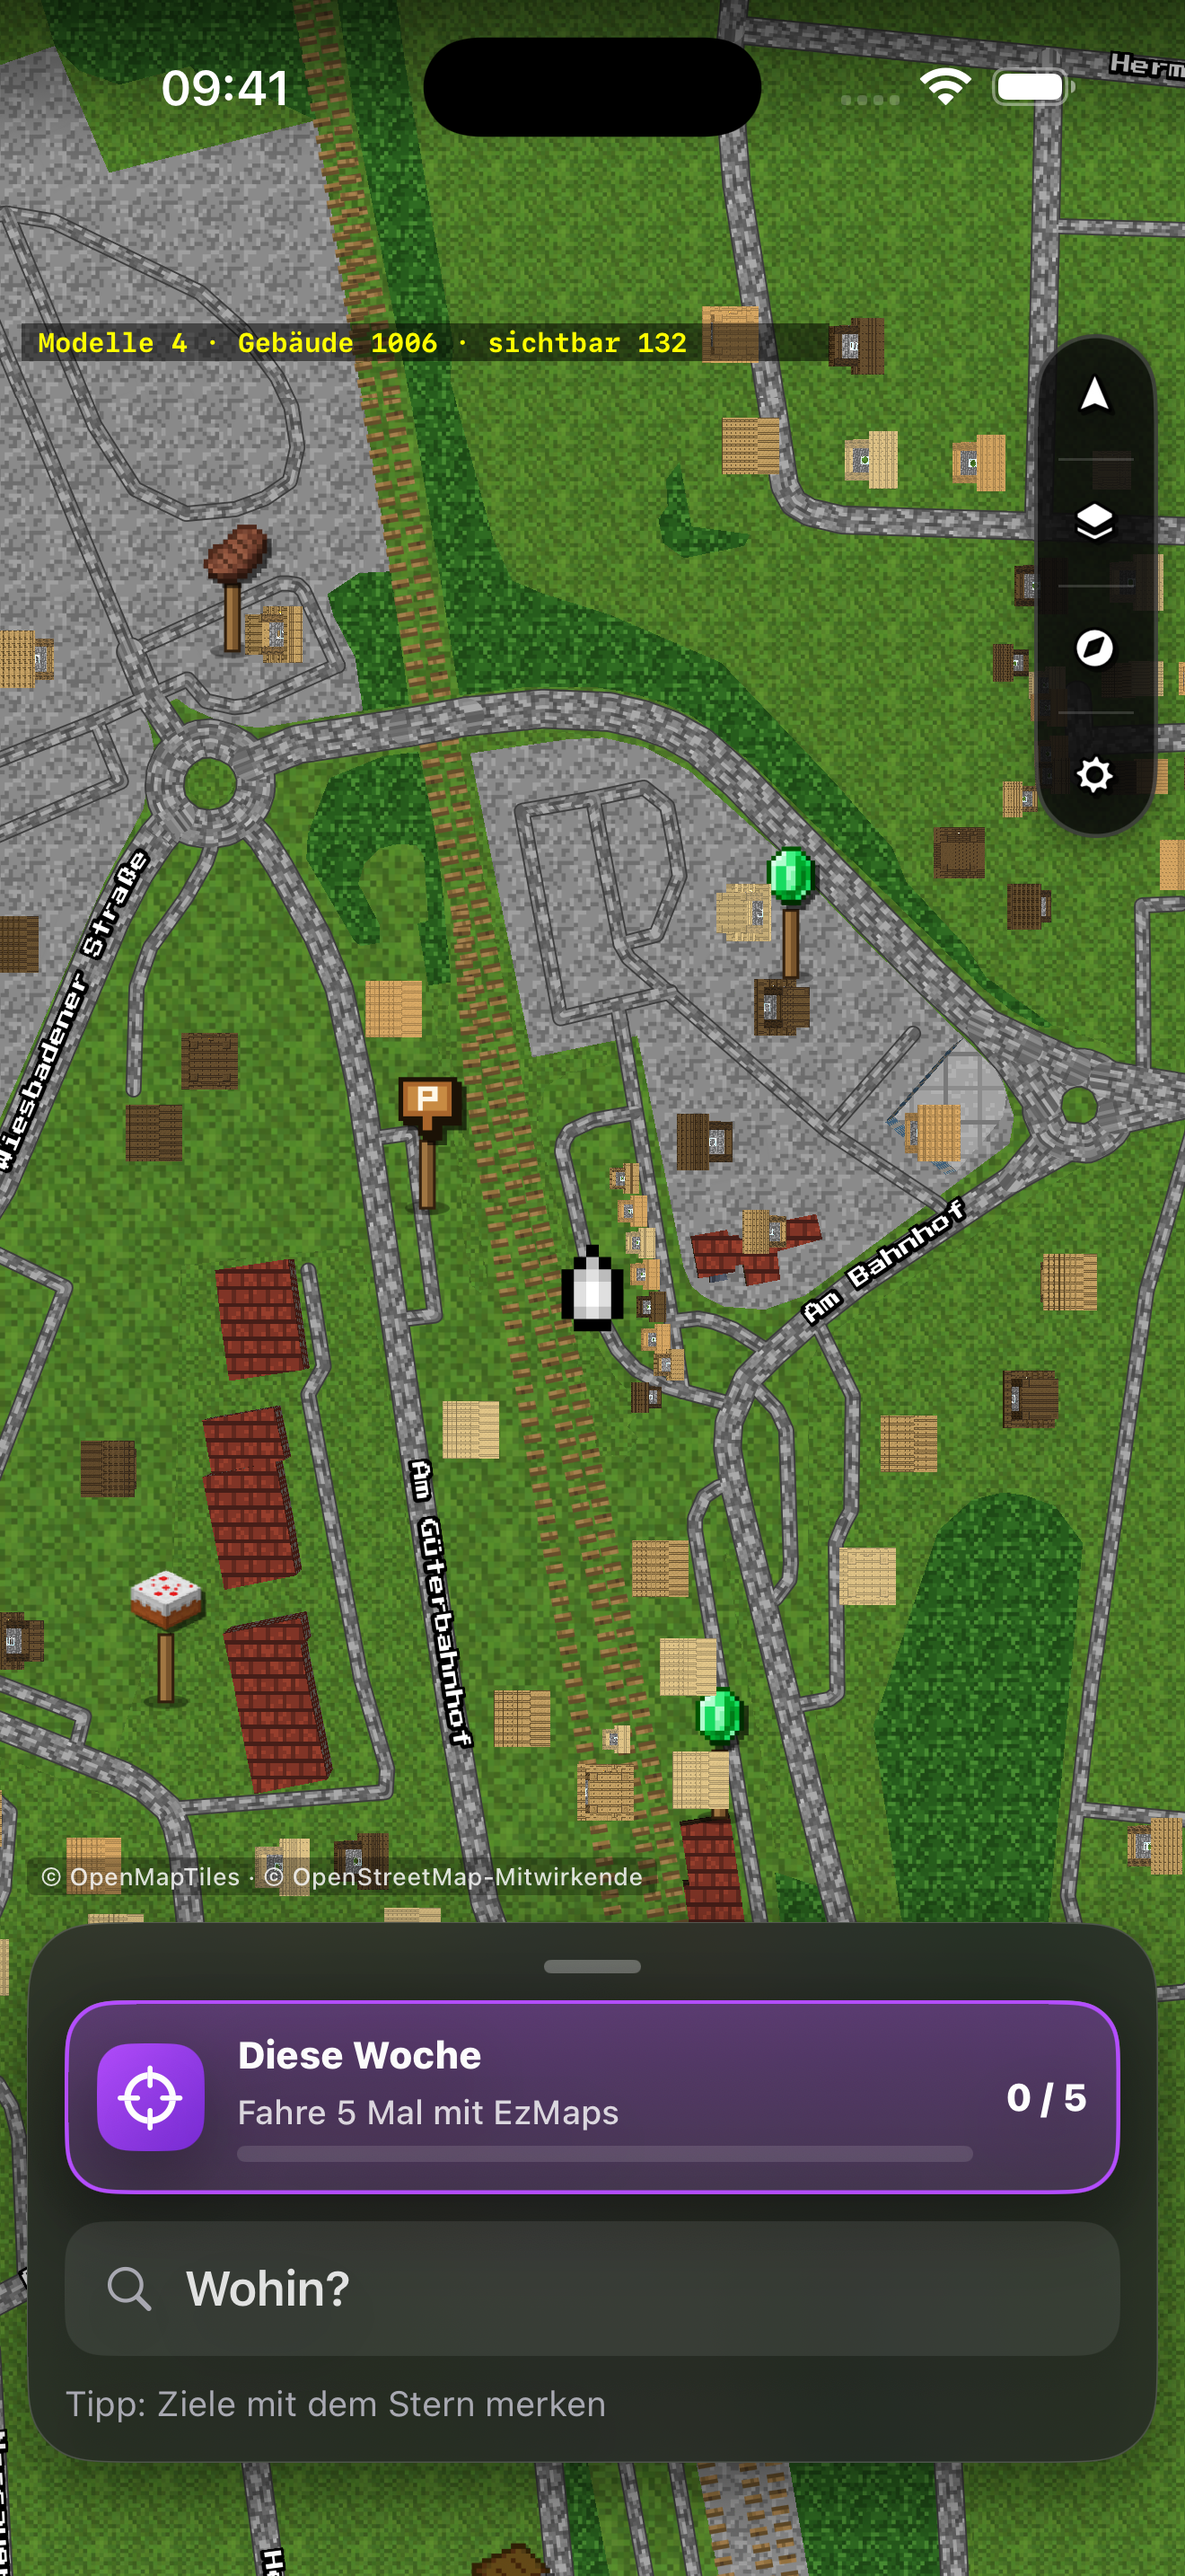
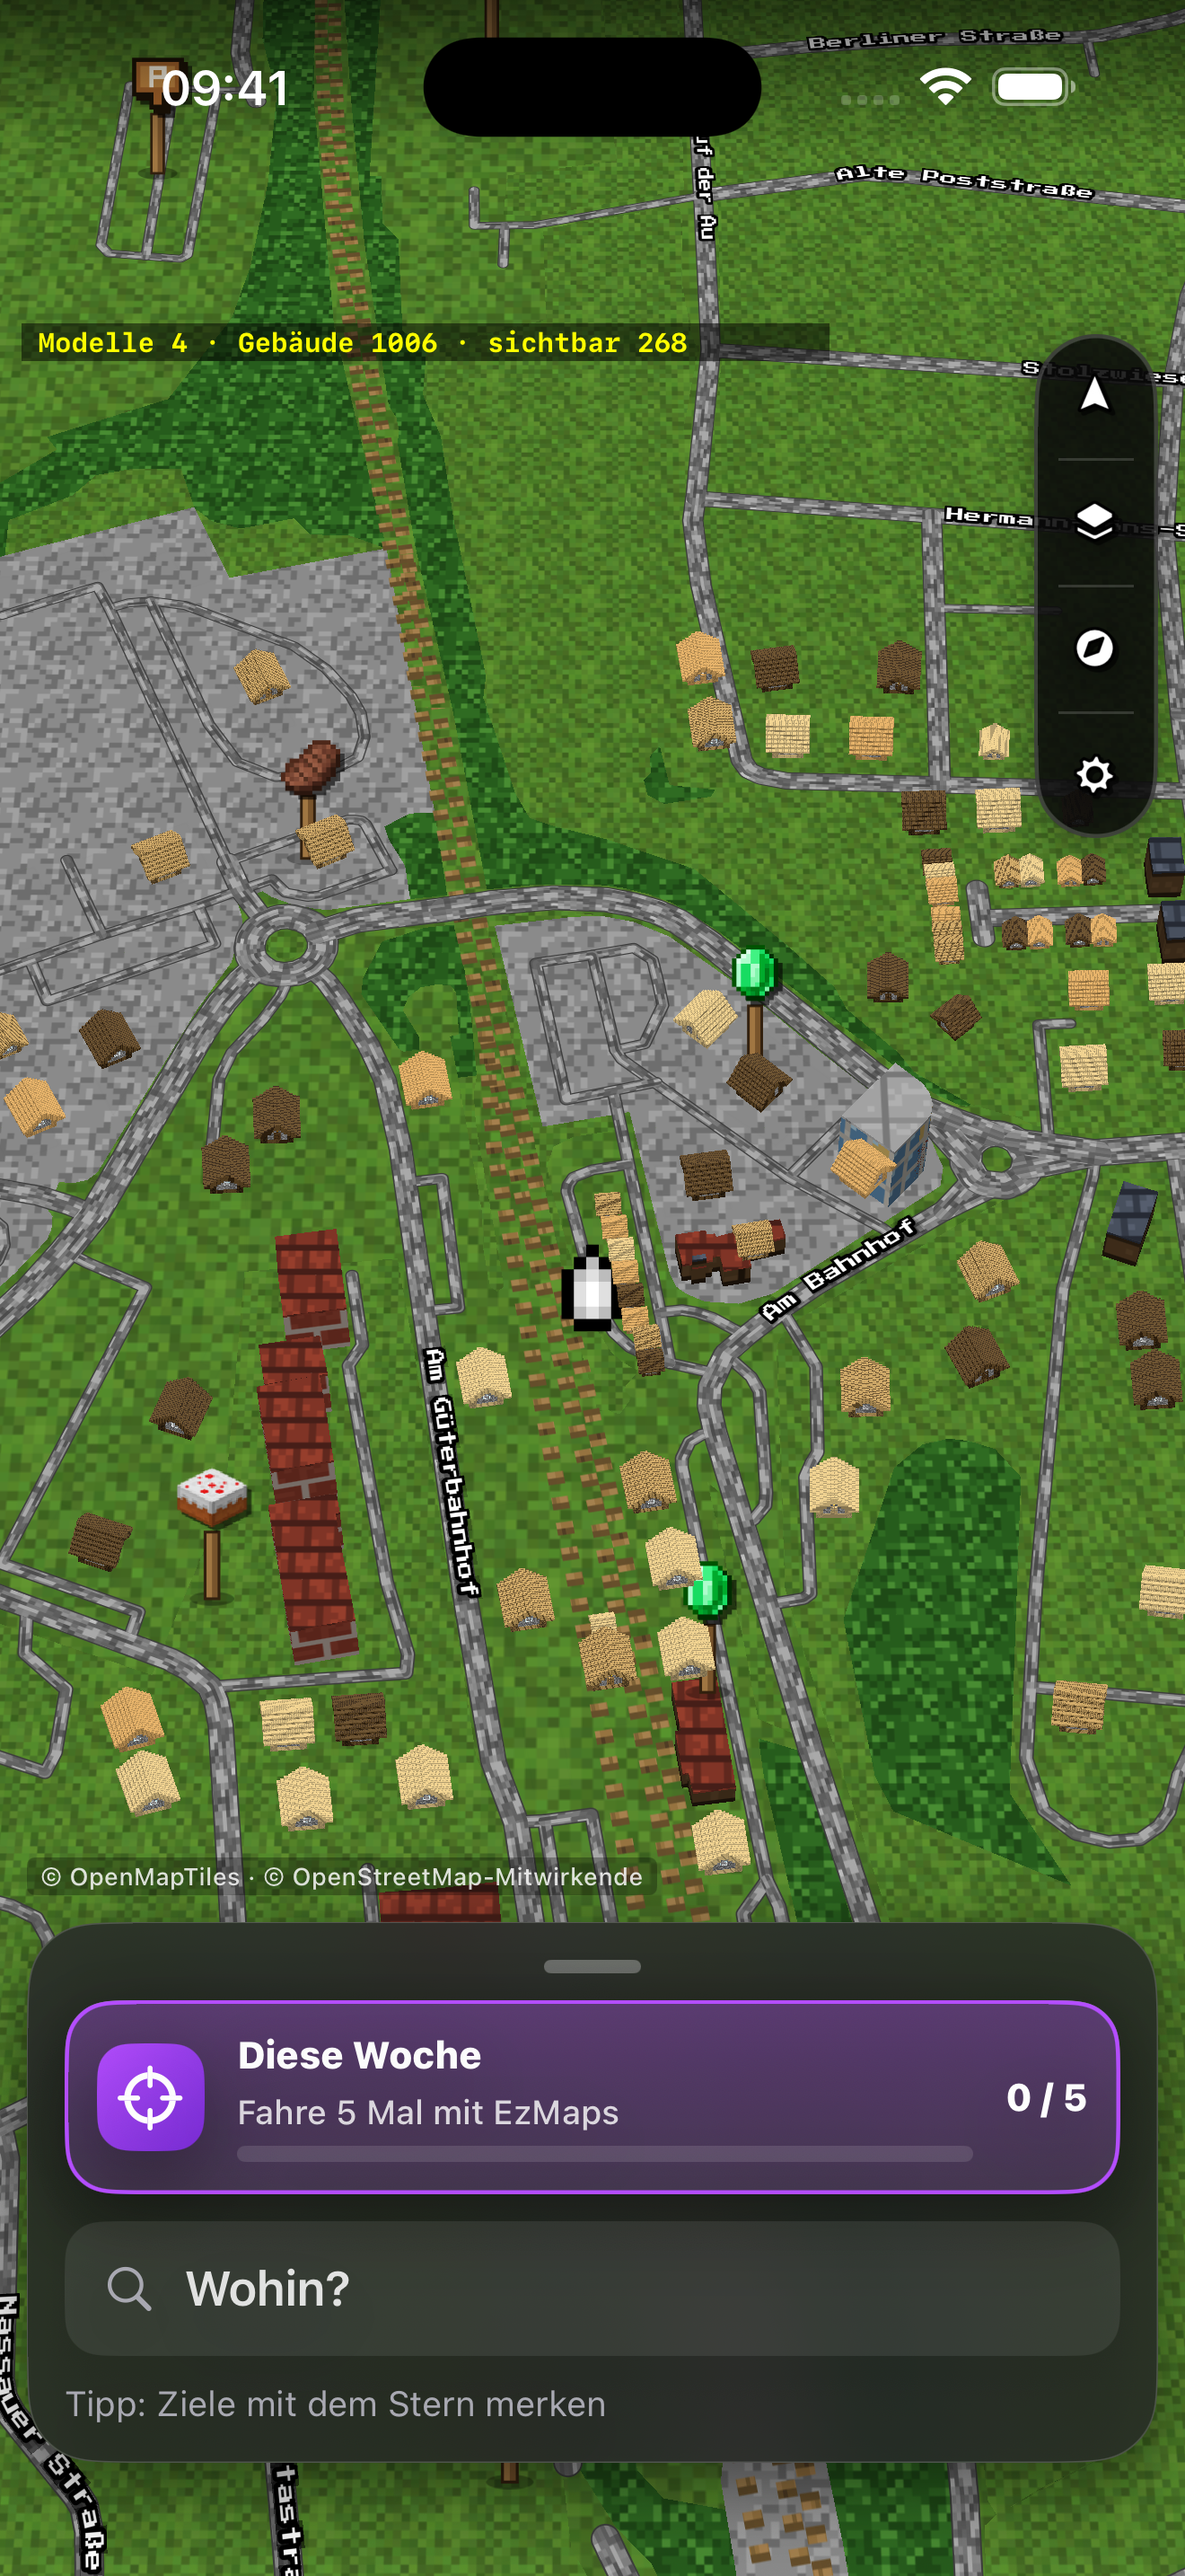
GM-093: 3D-Villager sichtbar, bis 160 Häuser, Vorher/Nachher

diff --git a/App/VillageLayer.swift b/App/VillageLayer.swift
@@ -10,7 +10,7 @@ import UIKit
 @MainActor
 final class VillageLayer {
     static let minZoom = 15.0
-    private static let maxHouses = 80
+    private static let maxHouses = 160 // GM-093: Simulator zeigte 268 Kandidaten bei Zoom 16
     private weak var map: MLNMapView?
     private let view = SCNView()
     private let scene = SCNScene()
@@ -55,13 +55,13 @@ final class VillageLayer {
             templates.append(t)
         }
         map.addSubview(view) // über der Karte (Index 1 lag hinter der Zeichenfläche – Häuser unsichtbar)
-        #if DEBUG || EZTEST
+        if ScreenshotMode.state != nil { // GM-093: Zählanzeige nur in Prüfbildern
         debug.font = .monospacedSystemFont(ofSize: 10, weight: .bold)
         debug.textColor = .yellow
         debug.backgroundColor = UIColor.black.withAlphaComponent(0.5)
         debug.frame = CGRect(x: 8, y: 120, width: 300, height: 14)
         view.addSubview(debug)
-        #endif
+        }
     }
 
     private func clear() {

diff --git a/CHANGELOG.md b/CHANGELOG.md
@@ -2,17 +2,21 @@
 
 Neue Einträge oben. Nummernreihe: `GM-xxx`.
 
-## GM-093 – 3D-Villager: Gebäude über gezeichnete Probe-Ebene finden
+## GM-093 – 3D-Villager-Häuser sichtbar (Fehlersuche im Simulator)
 
-**Ziel:** Nutzer-Bilder mit Zählanzeige: „Modelle 4 · Gebäude 1 · sichtbar 0“ – Modelle geladen, aber die Quell-Abfrage von MapLibre lieferte nur 1 Gebäude.
+**Ziel:** Nutzer: „die Häuser werden nicht angezeigt, mach alles eigenständig, in 30 Minuten ist alles fertig“.
 
-**Dateien:** `tools/maplibre/build_style.py`, `App/MapStyles/style-pixel-quest.json`, `App/VillageLayer.swift`
+**Dateien:** `App/VillageLayer.swift`, `App/NeonMapView.swift`, `App/ScreenshotMode.swift`, `tools/maplibre/build_style.py`, `App/MapStyles/style-pixel-quest.json`, `tools/mac_build.sh`, `tools/mac_screens.sh`, `docs/store/pixel/`, `docs/vorher-nachher/pixel-3d-villager.png`
 
-**Geändert:** Kleine Gebäude (unter 8 m) liegen ab Zoom 15 als fast unsichtbare Fläche `building-probe` im Stil, die App fragt die gezeichneten Gebäude dort ab. Zählanzeige zeigt jetzt auch den Zoom, wenn er zu klein ist.
+**Geändert:**
+- Gebäude über die fast unsichtbare Probe-Ebene `building-probe` abfragen (Quell-Abfrage lieferte 1 Gebäude) und jedes Teil zusammengefasster Flächen nehmen (die Kacheln fassen gleich hohe Nachbarhäuser zusammen – vorher nur 4 Gebäude).
+- Drehung als Quaternion: erst um die eigene Hochachse nach der Gebäudekante, dann nach der Kartenneigung kippen (mit eulerAngles kippten Häuser seitlich).
+- Neigung des Stils schon nach dem Laden (Pixel Quest startete flach). Häuser auch nach jeder Kartenbewegung neu suchen, bis 160 im Bild.
+- Schneller Prüflauf `bash tools/mac_screens.sh pixel` (nur Pixel Quest, Zoom 15,2 / 16,2 / 17,2, rund 2 Minuten), Start-Zoom über `-EZZoom`. Zählanzeige nur in Prüfbildern.
 
-**Tatsächlich geprüft:** STIL OK.
+**Tatsächlich geprüft:** Simulator-Bilder: 1006 Gebäude, 268 Kandidaten bei Zoom 16,2, Häuser in vier Holzarten schräg auf den Gebäuden. Mac-Lauf siehe unten.
 
-**Ungetestet:** iPhone.
+**Ungetestet:** iPhone (Leistung, Bewegung beim Schieben/Drehen), CarPlay (dort keine Häuser-Ebene).
 
 ## GM-092 – Pixel Quest: 3D-Villager-Häuser als SceneKit-Ebene
 
